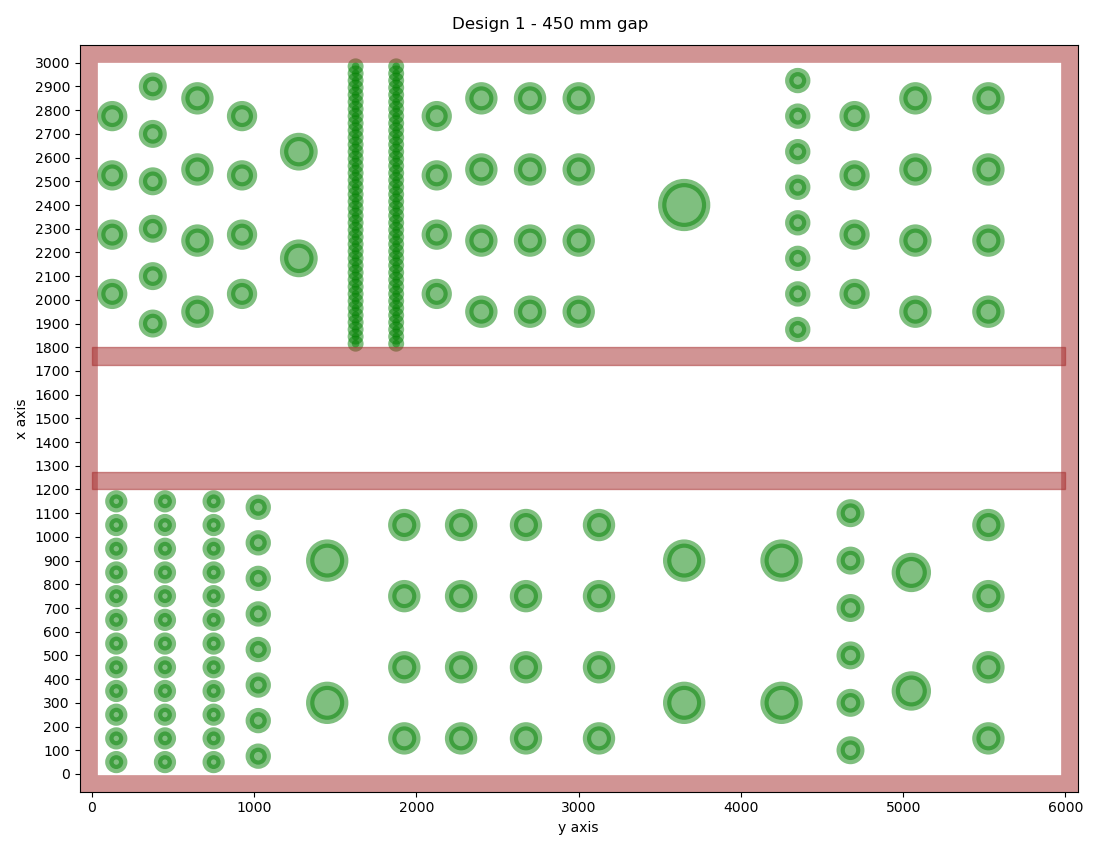
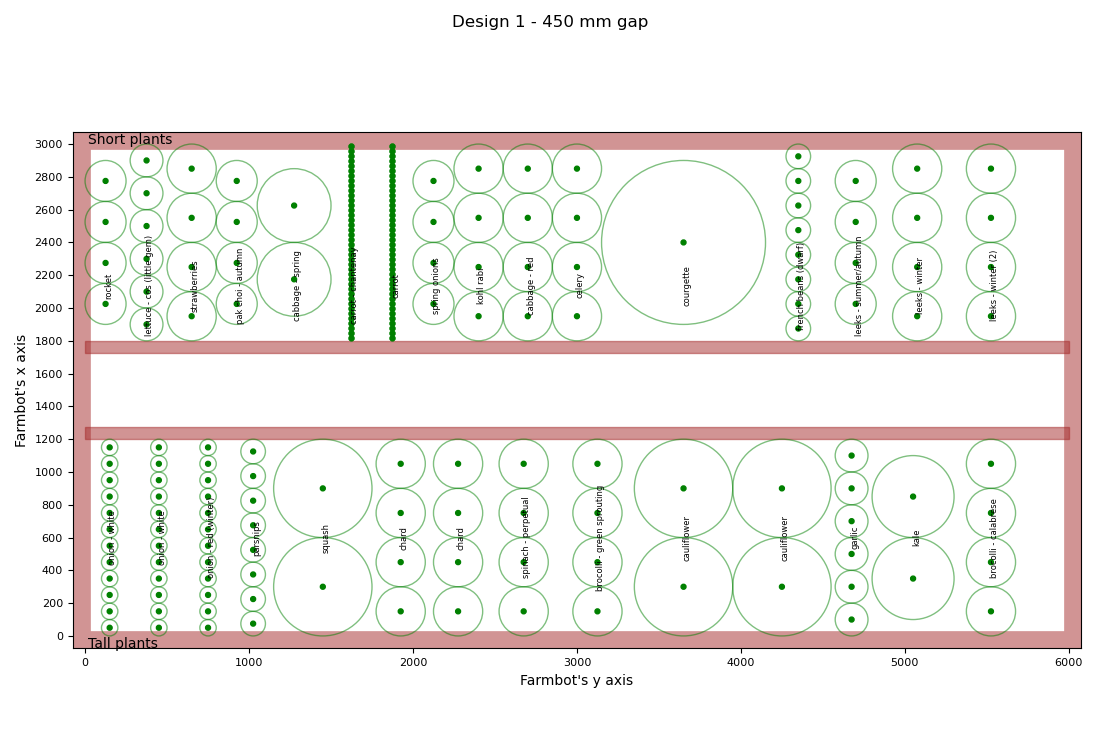
Added function

diff --git a/farmbot_explore/plot-Farmbot-plan.py b/farmbot_explore/plot-Farmbot-plan.py
@@ -3,115 +3,114 @@ import matplotlib.pyplot as plt
 import numpy as np
 import pandas as pd
 import seaborn as sns
-import matplotlib.patches as patches
+from matplotlib.patches import Circle, Rectangle
 
-# show design 1
+# set params
+TINY_SIZE = 6
+SMALL_SIZE = 8
+MEDIUM_SIZE = 10
+BIGGER_SIZE = 12
+
+plt.rc('font', size=MEDIUM_SIZE)          # controls default text sizes
+plt.rc('axes', titlesize=SMALL_SIZE)     # fontsize of the axes title
+plt.rc('axes', labelsize=MEDIUM_SIZE)    # fontsize of the x and y labels
+plt.rc('xtick', labelsize=SMALL_SIZE)    # fontsize of the tick labels
+plt.rc('ytick', labelsize=SMALL_SIZE)    # fontsize of the tick labels
+plt.rc('legend', fontsize=SMALL_SIZE)    # legend fontsize
+plt.rc('figure', titlesize=BIGGER_SIZE)  # fontsize of the figure title
+
+
+
+
+def make_chart(design, file_label, title, gap_min, gap_max):
+
+    plist = []
+    xlist = []
+    ylist = []
+    zlist = []
+
+    # create lists of plant centres and radii
+    for index, row in design1.iterrows():
+
+        plist.append(row['plant'])
+        x = row['x-centre-first']
+        y = row['y-centre-first']
+        z = row['x-spacing']
+        i = 1
+
+        while i <= row['num-rows']:
+
+            while x <= row['x-centre-last']:
+                xlist.append(x)
+                ylist.append(y)
+                zlist.append(z)
+                x += row['x-spacing']
+
+            i += 1
+            x = row['x-centre-first']
+            y = y + row['y-spacing']
+
+
+
+    # initialise plot
+    fig = plt.figure(figsize=(11, 7.5))
+    ax = fig.add_subplot(aspect = 'equal')
+    fig.suptitle(title)
+    ax.set_xlim(xmax=6075, xmin=-75)
+    ax.set_ylim(ymax=3075, ymin=-75) #switch these round to invert the axis
+    ax.set_yticks(np.arange(0,3100,step=200))
+
+    ax.set_ylabel('Farmbot\'s x axis')
+    ax.set_xlabel('Farmbot\'s y axis')
+
+    # draw empty bed
+    rect1 = Rectangle((0,gap_min),6000,75,linewidth=1,edgecolor='brown',facecolor='brown', alpha=0.5)
+    ax.add_patch(rect1)
+    rect2 = Rectangle((0,gap_max),6000,75,linewidth=1,edgecolor='brown',facecolor='brown', alpha=0.5)
+    ax.add_patch(rect2)
+    rect3 = Rectangle((-75,-75),6150,3150,linewidth=25,edgecolor='brown',facecolor='none', alpha=0.5)
+    ax.add_patch(rect3)
+    ax.text(20, 3000, 'Short plants')
+    ax.text(20, -75, 'Tall plants')
+
+    # add plants
+    i = 0
+    while i < len(ylist):
+        dot = Circle((ylist[i], xlist[i]), 15, facecolor='green', edgecolor='green',
+                        linewidth=1)
+        ax.add_patch(dot)
+        circle = Circle((ylist[i], xlist[i]), zlist[i]/2, facecolor='none', edgecolor='green',
+                        linewidth=1, alpha=0.5)
+        ax.add_patch(circle)
+        i +=1
+
+    # add names
+    for index, row in design.iterrows():
+
+        i = 1
+        x = row['y-centre-first']
+        while i <= row['num-rows']:
+            if row['x-centre-first'] < 1500:
+                y = gap_min/2
+            else:
+                y = 3000-(gap_max/2)
+            ax.text(x+20, y, row['plant'], rotation = 90, fontsize = TINY_SIZE,
+                    horizontalalignment='center', verticalalignment='center')
+            x = x + row['y-spacing']
+            i += 1
+
+    fig.show()
+    fig.savefig(file_label+".png")
+
+
+# load data
 
 filename = '/Users/zellaking/GitHubRepos/vegbot/farmbot_explore/Farmbot bed plan - data - design1.csv'
 design1 = pd.read_csv(filename, sep =',')
 
-plist = []
-xlist = []
-ylist = []
-zlist = []
-
-# create matrix of plant centres and radii
-for index, row in design1.iterrows():
-
-    plist.append(row['plant'])
-    x = row['x-centre-first']
-    y = row['y-centre-first']
-    z = row['x-spacing']
-    i = 1
-
-    while i <= row['num-rows']:
-
-        while x <= row['x-centre-last']:
-            xlist.append(x)
-            ylist.append(y)
-            zlist.append(z)
-            x += row['x-spacing']
-
-        i +=1
-        x = row['x-centre-first']
-        y = row['y-centre-first'] + row['y-spacing']
-
-
-
-# plot using scatterplot
-fig, ax = plt.subplots(figsize=(11, 8.5))
-fig.suptitle('Design 1 - 450 mm gap')
-ax.set_xlim(xmax=6075, xmin=-75)
-ax.set_ylim(ymax=3075, ymin=-75) #switch these round to invert the axis
-ax.set_yticks(np.arange(0,3100,step=100))
-
-ax.set_ylabel('x axis')
-ax.set_xlabel('y axis')
-
-ax.scatter(ylist, xlist, zlist, c = "green", linewidths= 6, alpha=0.5)
-rect1 = patches.Rectangle((0,1200),6000,75,linewidth=1,edgecolor='brown',facecolor='brown', alpha=0.5)
-ax.add_patch(rect1)
-rect2 = patches.Rectangle((0,1800-75),6000,75,linewidth=1,edgecolor='brown',facecolor='brown', alpha=0.5)
-ax.add_patch(rect2)
-rect3 = patches.Rectangle((-75,-75),6150,3150,linewidth=25,edgecolor='brown',facecolor='none', alpha=0.5)
-ax.add_patch(rect3)
-fig.show()
-fig.savefig("design1.png")
-
-
-
-# show design 2
-
 filename = '/Users/zellaking/GitHubRepos/vegbot/farmbot_explore/Farmbot bed plan - data - design2.csv'
 design2 = pd.read_csv(filename, sep =',')
 
-plist = []
-xlist = []
-ylist = []
-zlist = []
-
-# create matrix of plant centres and radii
-for index, row in design2.iterrows():
-
-    plist.append(row['plant'])
-    x = row['x-centre-first']
-    y = row['y-centre-first']
-    z = row['x-spacing']
-    i = 1
-
-    while i <= row['num-rows']:
-
-        while x <= row['x-centre-last']:
-            xlist.append(x)
-            ylist.append(y)
-            zlist.append(z)
-            x += row['x-spacing']
-
-        i +=1
-        x = row['x-centre-first']
-        y = row['y-centre-first'] + row['y-spacing']
-
-
-
-# plot using scatterplot
-fig, ax = plt.subplots(figsize=(11, 8.5))
-fig.suptitle('Design 2 - 600 mm gap')
-ax.set_xlim(xmax=6075, xmin=-75)
-ax.set_ylim(ymax=3075, ymin=-75) #switch these round to invert the axis
-ax.set_yticks(np.arange(0,3100,step=100))
-
-ax.set_ylabel('x axis')
-ax.set_xlabel('y axis')
-
-
-# use the scatter function
-
-ax.scatter(ylist, xlist, zlist, c = "green", linewidths= 6, alpha=0.5)
-rect1 = patches.Rectangle((0,1200-75),6000,75,linewidth=1,edgecolor='brown',facecolor='brown', alpha=0.5)
-ax.add_patch(rect1)
-rect2 = patches.Rectangle((0,1800),6000,75,linewidth=1,edgecolor='brown',facecolor='brown', alpha=0.5)
-ax.add_patch(rect2)
-rect3 = patches.Rectangle((-75,-75),6150,3150,linewidth=25,edgecolor='brown',facecolor='none', alpha=0.5)
-ax.add_patch(rect3)
-fig.show()
-fig.savefig("design2.png")
+# make charts
+make_chart(design1, "design1", 'Design 1 - 450 mm gap', 1200, 1800-75)
+make_chart(design2, "design2", 'Design 2 - 600 mm gap', 1200-75, 1800)

diff --git a/farmbot_explore/temp.py b/farmbot_explore/temp.py
@@ -1,0 +1,33 @@
+import matplotlib
+import matplotlib.pyplot as plt
+
+fig = plt.figure()
+fig.suptitle('bold figure suptitle', fontsize=14, fontweight='bold')
+
+ax = fig.add_subplot(111)
+fig.subplots_adjust(top=0.85)
+ax.set_title('axes title')
+
+ax.set_xlabel('xlabel')
+ax.set_ylabel('ylabel')
+
+ax.text(3, 8, 'boxed italics text in data coords', style='italic',
+        bbox={'facecolor': 'red', 'alpha': 0.5, 'pad': 10})
+
+ax.text(12, 6, r'an equation: $E=mc^2$', fontsize=15)
+
+ax.text(3, 2, 'unicode: Institut für Festkörperphysik')
+
+ax.text(0.95, 0.01, 'colored text in axes coords',
+        verticalalignment='bottom', horizontalalignment='right',
+        transform=ax.transAxes,
+        color='green', fontsize=15)
+
+
+ax.plot([2], [1], 'o')
+ax.annotate('annotate', xy=(2, 1), xytext=(3, 4),
+            arrowprops=dict(facecolor='black', shrink=0.05))
+
+ax.axis([0, 10, 0, 10])
+
+plt.show()
